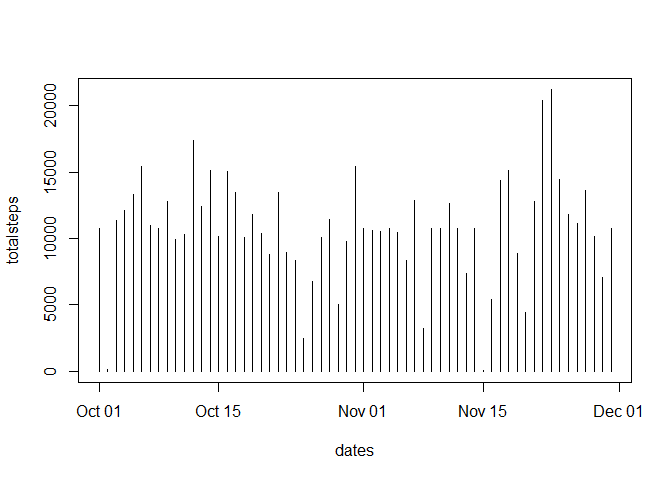
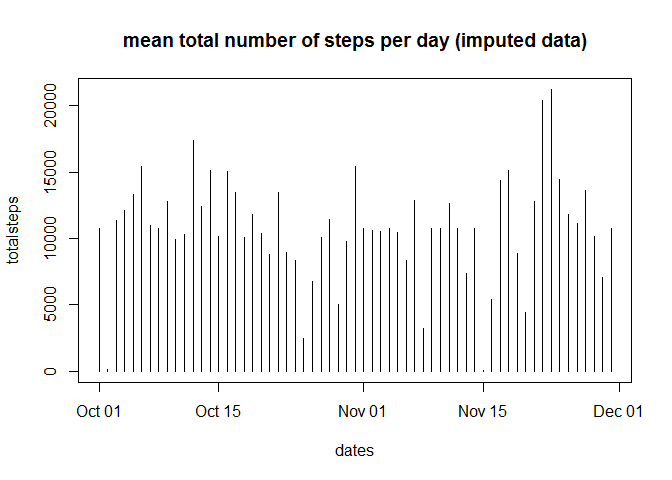
week 2 assignment add plot titles

Changed region(s): [[0.1875, 0.0625, 0.875, 0.125]]

diff --git a/PA1_template.html b/PA1_template.html
@@ -132,8 +132,8 @@ activity$date&lt;-as.Date(activity$date)</code></pre>
 <p>We first compute the total number of steps taken per day</p>
 <pre class="r"><code>totalsteps&lt;-with(activity, sapply(split(steps, date),sum))
 dates&lt;-unique(activity$date)
-plot(dates,totalsteps, type = &quot;h&quot;)</code></pre>
[1 lines of base64/hex data omitted]
+plot(dates,totalsteps, type = &quot;h&quot;, main=&quot;mean total number of steps per day&quot;)</code></pre>
[1 lines of base64/hex data omitted]
 <pre class="r"><code>mean.steps&lt;-mean(totalsteps, na.rm = TRUE)
 median.steps&lt;-median(totalsteps, na.rm = TRUE)</code></pre>
 <p>for the total number of steps taken per day, the mean is 1.076618910^{4} and the median is 10765.</p>
@@ -142,8 +142,8 @@ median.steps&lt;-median(totalsteps, na.rm = TRUE)</code></pre>
 <h2>What is the average daily activity pattern?</h2>
 <p>Firts we have to aggregate the data by 5-minutes intervals.</p>
 <pre class="r"><code>intervalstat&lt;-aggregate(steps~interval, data=activity, mean, na.rm=TRUE)
-with(intervalstat, plot(interval, steps, type=&quot;l&quot;))</code></pre>
[1 lines of base64/hex data omitted]
+with(intervalstat, plot(interval, steps, type=&quot;l&quot;, main=&quot;average daily activity pattern&quot;))</code></pre>
[1 lines of base64/hex data omitted]
 <pre class="r"><code>maxnb&lt;-intervalstat$interval[which.max(intervalstat$steps)]</code></pre>
 <p>The interval 835 contains, on average, the maximum number of steps.</p>
 </div>
@@ -166,8 +166,8 @@ for (i in 1:nrow(activity.imp))
   }</code></pre>
 <p>Now we make a similar summary for the imputed data. First with the histogram</p>
 <pre class="r"><code>totalsteps&lt;-with(activity.imp, sapply(split(steps, date),sum))
-plot(dates,totalsteps, type = &quot;h&quot;)</code></pre>
[1 lines of base64/hex data omitted]
+plot(dates,totalsteps, type = &quot;h&quot;, main=&quot;mean total number of steps per day (imputed data)&quot;)</code></pre>
[1 lines of base64/hex data omitted]
 <pre class="r"><code>mean.imp&lt;-mean(totalsteps, na.rm = TRUE)
 median.imp&lt;-median(totalsteps, na.rm = TRUE)</code></pre>
 <p>The mean remained the same 1.076618910^{4} (previously: 1.076618910^{4}), while the median became 1.076618910^{4} compared to 10765 previously.</p>

diff --git a/PA1_template.md b/PA1_template.md
@@ -18,7 +18,7 @@ We first compute the total number of steps taken per day
 ```r
 totalsteps<-with(activity, sapply(split(steps, date),sum))
 dates<-unique(activity$date)
-plot(dates,totalsteps, type = "h")
+plot(dates,totalsteps, type = "h", main="mean total number of steps per day")
 ```
 
 ![](PA1_template_files/figure-html/summary-1.png)<!-- -->
@@ -35,7 +35,7 @@ Firts we have to aggregate the data by 5-minutes intervals.
 
 ```r
 intervalstat<-aggregate(steps~interval, data=activity, mean, na.rm=TRUE)
-with(intervalstat, plot(interval, steps, type="l"))
+with(intervalstat, plot(interval, steps, type="l", main="average daily activity pattern"))
 ```
 
 ![](PA1_template_files/figure-html/intervalstat-1.png)<!-- -->
@@ -85,7 +85,7 @@ First with the histogram
 
 ```r
 totalsteps<-with(activity.imp, sapply(split(steps, date),sum))
-plot(dates,totalsteps, type = "h")
+plot(dates,totalsteps, type = "h", main="mean total number of steps per day (imputed data)")
 ```
 
 ![](PA1_template_files/figure-html/imp.summary-1.png)<!-- -->
